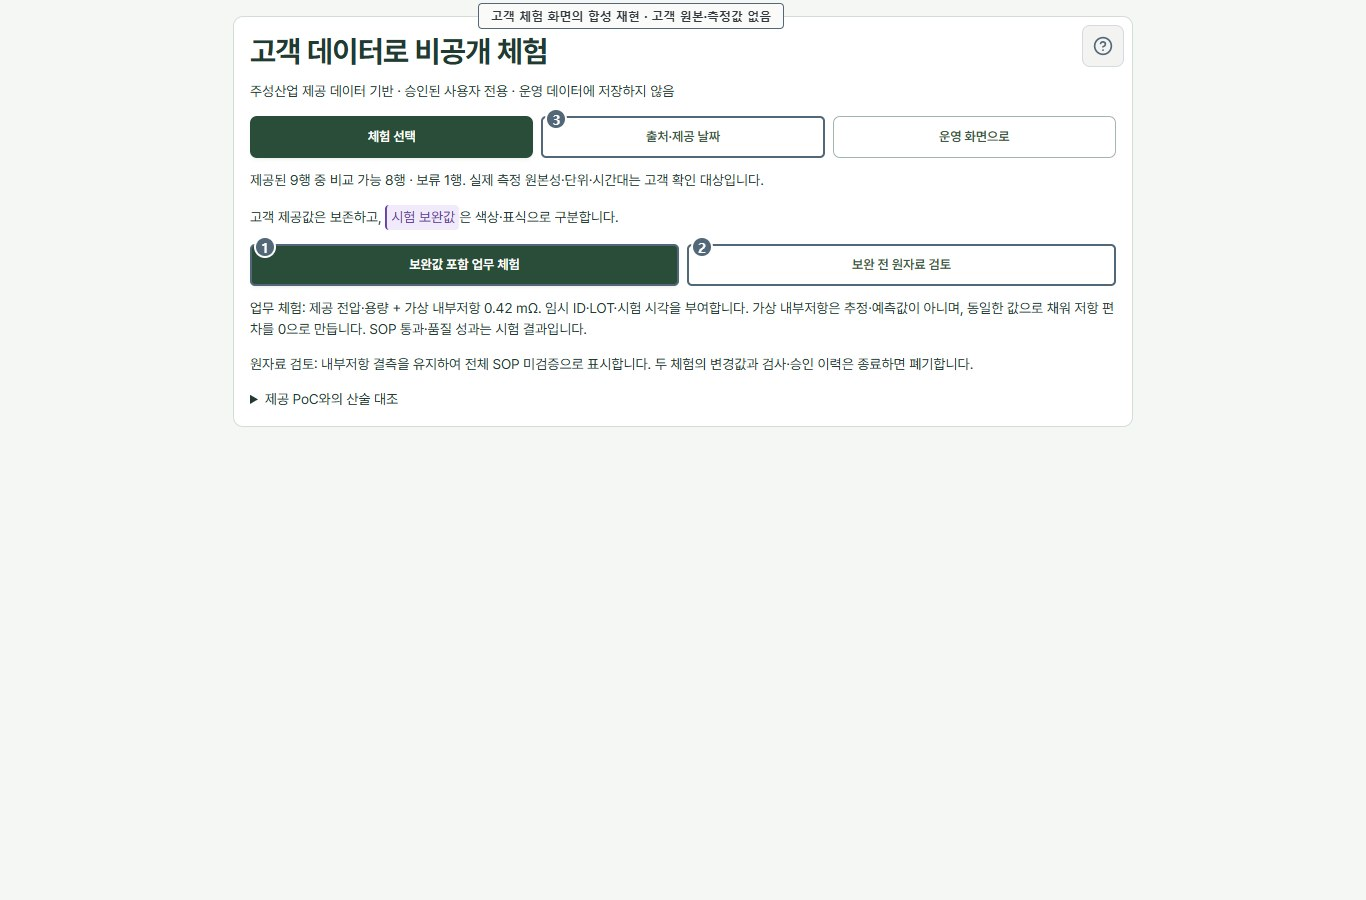
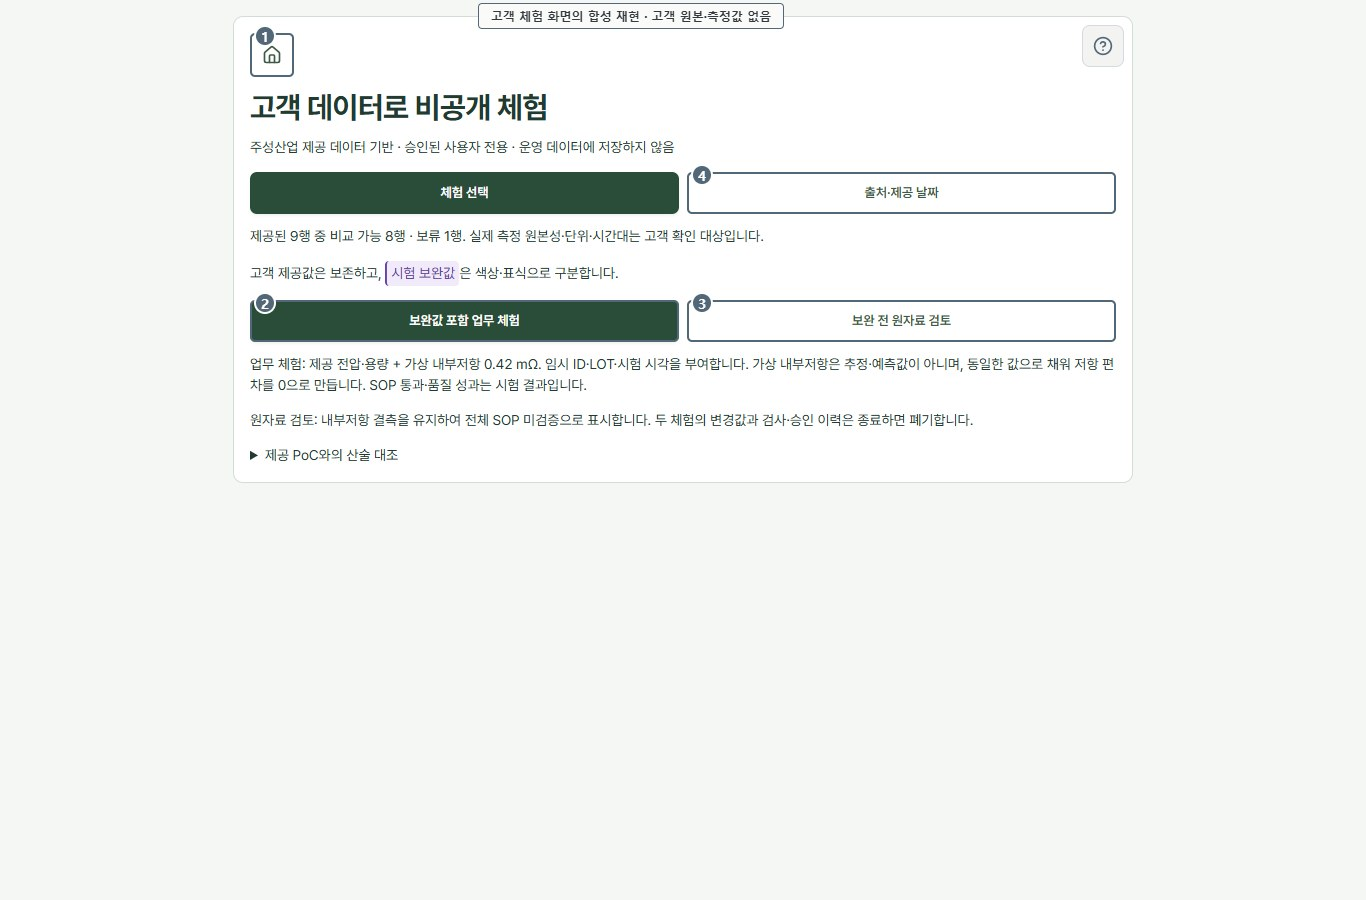
Make private demo home return visible and refresh source-data guidance

diff --git a/src/manual/content.ts b/src/manual/content.ts
@@ -14,6 +14,6 @@ export const scenarios:ManualScenario[]=[
  {id:'twin',title:'공정 공간·설계·시뮬레이션',role:'공정 설계·연구 담당자',start:'생산·품질의 공유 현장과 연구의 가상 설계를 구분합니다. 현재 실제 장비 신호는 연결되어 있지 않습니다.',steps:[{title:'공간과 기록 구분',body:'개인 설계 배치는 위치 파악용입니다. 공간의 표시만으로 실제 가동·품질을 판단하지 않습니다.',target:'.console-scene, .studio-scene'},{title:'장비와 연결 정의',body:'공정 구성에서 장비를 선택하고 배치·처리주기·수치 태그·공정 연결을 정의한 뒤 적용합니다.',target:'.studio-tool-picker, .studio-panel'},{title:'명시적으로 모의 실행',body:'시뮬레이션에서 가상 실행 또는 1초 진행을 누릅니다. 조립·저장·승인만으로 가동되지 않습니다.',target:'.studio-command-bar'},{title:'결과와 제출본 검토',body:'모의 실행 기록과 경보를 확인하고 설계 검토를 요청합니다. 저장·가져오기에서 개인 배치를 보관할 수 있습니다.',target:'.studio-panel, .console-focus'},{title:'설계 저장과 가져오기',body:'현재 배치를 이 브라우저에 저장하거나 JSON 파일로 보관합니다. 저장은 실제 공장에 적용하는 작업이 아닙니다.',target:'.twin-storage .twin-actions',priority:1}],criteria:'모의 처리량·센서는 합성 값입니다. 실제 공장 처리량, 배터리 물리 모델 또는 실제 장비 제어 결과가 아닙니다.',exception:'연결 누락·순환 등 실행 오류를 먼저 수정하세요. 실제 현장 연계에는 장비 매핑·게이트웨이·검증이 별도로 필요합니다.',done:'개인 공정 설계와 모의 검토 근거를 보관하거나 제출합니다.'},
  {id:'research',title:'공개 데이터·알고리즘 검증',role:'분석·검증 담당자',start:'조합 비교, 데이터 준비 상태 검사, 공개 모델 체험 중 목적을 정합니다.',steps:[{title:'목적에 맞는 도구 선택',body:'조합 비교는 셀 조합 방법을 비교합니다. 데이터 준비 검증은 연구 조건·스키마를 확인합니다. 연구 모델·열화 관찰에서 UConn 공개 모델 추론과 Severson 열화 이력을 엽니다.',target:'.research-lab > .task-group-tabs, .research-lab > .visible-task-tabs'},{title:'출처·조건 확인',body:'UConn 55셀은 연구 조건의 전압·펄스 저항·용량 자료입니다. 현장 OCV·ACIR과 같은 측정으로 간주하지 않습니다.',target:'.research-body, .data-validation, .pretrained-explorer'},{title:'실행 결과 해석·보관',body:'입력과 조건을 확인하고 직접 실행합니다. 결과의 한계와 근거를 확인해 내보내거나 허용된 저장 기능을 사용합니다.',target:'.research-results, .research-body, .data-validation, .pretrained-explorer'},{title:'수명·안정성 정보 구분',body:'UConn은 공개 특징값으로 용량 추정을 재생합니다. Severson은 시험 기록의 용량 변화를 관찰합니다. 둘 다 주성산업 8셀 팩의 수명·안정성을 예측하거나 품질을 승인하는 기능은 아닙니다.',target:'.pretrained-explorer, .severson-explorer'}],criteria:'데이터 스키마 충족은 예측 성능 인증이 아닙니다. 연구 결과는 운영 셀·팩·품질 지표에 자동 반영되지 않습니다.',exception:'자료나 조건이 부족하면 미검증으로 남깁니다. 외부 링크가 열리지 않으면 화면의 보관된 근거 요약을 확인합니다.',done:'재현 가능한 비교 근거와 현장 적용 전 추가 검증 항목을 확보합니다.'},
  {id:'members',title:'가입 승인·공정 배정·승인권',role:'시스템 관리자',start:'직원의 신원과 수행할 업무를 확인합니다.',steps:[{title:'가입 상태 확인',body:'가입 신청자의 계정을 확인해 승인·반려합니다. 조회자와 업무 구성원의 역할을 구분합니다.',target:'.table-wrap'},{title:'담당 공정 배정',body:'셀 등록·매칭·케이싱, 모듈 검사·기존 에이징, 최종검사 중 실제 담당 공정을 지정합니다.',target:'.member-permission-fields fieldset, .member-permissions summary'},{title:'최종 승인권 별도 할당',body:'품질 승인 업무를 맡은 사람에게 별도로 승인권을 부여합니다. 관리자라는 이유로 최종 품질 승인을 수행하지 않습니다.',target:'.member-permission-fields > button, .member-permissions summary'}],criteria:'가입 승인과 업무 권한 설정을 각각 확인합니다. 독립 승인 원칙은 권한 할당 후에도 적용됩니다.',exception:'공개 체험에서는 실제 사용자 권한을 바꾸지 않습니다. 이동·퇴사 시 담당 공정과 이용 상태를 점검합니다.',done:'직원이 필요한 업무만 수행할 수 있도록 역할·공정·승인권이 설정됩니다.'},
- {id:'sample',title:'샘플·고객 제공 데이터 체험',role:'체험 사용자·승인된 고객 자료 사용자',start:'가상 데이터로 공정 체험은 빈 재고에서 시작합니다. 가상 측정 파일 받기 → 파일 가져오기 → 검증·등록 → 용량별 재고 확인 → 8셀 조합 → 모듈 검사 → 케이싱 → 최종검사 → 품질 승인 순으로 진행합니다. 파일 등록 단계에서 예시 셀로 다음 단계를 누르면 가상 셀 128개로 용량별 재고 확인부터 진행합니다.',steps:[{title:'원본과 보완값 구분',body:'공개 체험의 셀은 기능 시연용 가상값입니다. 로그인 후 고객 데이터 체험에서는 원자료와 시험 보완값 표시를 비교합니다. 보완 내부저항은 실측이 아닙니다.',target:'.sample-value-grid, .sample-data-body, .private-demo-entry'},{title:'출처·날짜 확인',body:'파일 출처와 메타정보 날짜를 확인합니다. 파일 생성·수정일을 실제 제공일로 단정하지 않습니다.',target:'.sample-main-tabs > button:last-child, .sample-field-tabs > button:last-child, .private-demo-entry'},{title:'업무로 돌아가기',body:'샘플 확인을 닫으면 이전 업무로 돌아갑니다. 체험 중의 팩·검사는 실제 운영 기록과 구분합니다.',target:'.sample-data-view .console-task-heading > button, .private-demo-entry button'}],criteria:'원자료 모드는 결측을 유지합니다. 보완값을 사용한 업무 체험 결과를 원본 SOP 전체 통과로 표현하지 않습니다.',exception:'고객 자료 접근 권한이 없으면 관리자에게 문의합니다. 실제 원본·비밀번호를 공개 저장소나 공개 체험에 넣지 않습니다.',done:'데이터 출처와 보완 범위를 이해한 상태로 연습하거나 근거를 검토합니다.'}
+ {id:'sample',title:'샘플·고객 제공 데이터 체험',role:'체험 사용자·승인된 고객 자료 사용자',start:'가상 데이터로 공정 체험은 빈 재고에서 시작합니다. 가상 측정 파일 받기 → 파일 가져오기 → 검증·등록 → 용량별 재고 확인 → 8셀 조합 → 모듈 검사 → 케이싱 → 최종검사 → 품질 승인 순으로 진행합니다. 파일 등록 단계에서 예시 셀로 다음 단계를 누르면 가상 셀 128개로 용량별 재고 확인부터 진행합니다.',steps:[{title:'전체 컬럼과 값 조회',body:'로그인 후 고객 데이터 체험에 들어가 샘플 데이터의 전체 항목을 엽니다. 원자료를 선택하면 원래 컬럼명과 모든 값을 조회할 수 있습니다. 충방전 기록과 PoC 2~4번째 탭을 제공하며 첫 품질 기준 설명 탭은 제외합니다. 가로 스크롤과 이전·다음 자료로 이동합니다.',target:'.source-tables',priority:10},{title:'원본과 보완값 구분',body:'공개 체험의 셀은 기능 시연용 가상값입니다. 로그인 후 고객 데이터 체험에서는 원자료와 시험 보완값 표시를 비교합니다. 보완 내부저항은 실측이 아닙니다.',target:'.sample-value-grid, .sample-data-body, .private-demo-entry'},{title:'출처·날짜 확인',body:'파일 출처와 메타정보 날짜를 확인합니다. 파일 생성·수정일을 실제 제공일로 단정하지 않습니다.',target:'.sample-main-tabs > button:last-child, .sample-field-tabs > button:last-child, .private-demo-entry'},{title:'업무로 돌아가기',body:'샘플 조회의 업무로 돌아가기는 체험 작업으로 복귀합니다. 체험 종료 후 선택 화면의 제목 위 홈 아이콘을 누르면 운영 화면으로 돌아갑니다.',target:'.sample-data-view .console-task-heading > button, .private-demo-home'}],criteria:'원자료 모드는 결측을 유지합니다. 보완값을 사용한 업무 체험 결과를 원본 SOP 전체 통과로 표현하지 않습니다.',exception:'고객 자료 접근 권한이 없으면 관리자에게 문의합니다. 실제 원본·비밀번호를 공개 저장소나 공개 체험에 넣지 않습니다.',done:'데이터 출처와 보완 범위를 이해한 상태로 연습하거나 근거를 검토합니다.'}
 ];
 export function scenarioById(id:string){return scenarios.find(s=>s.id===id)||scenarios[0];}

diff --git a/tests/private-demo.spec.ts b/tests/private-demo.spec.ts
@@ -7,7 +7,7 @@ test('private samples distinguish provided/supplemented values, restore work and
  const dataset={version:1,source_tables,files:[{name:'synthetic-fixture.xlsx',sha256:'a'.repeat(64),created:'2026-01-01T00:00:00Z',modified:'2026-02-01T00:00:00Z',provided_at:null}],verification:{valid:8,held:1,sequence_mean:7,poc_mean:7,improvement_percent:0,poc_two_criteria_pass:1,algorithm_reproduced:false},intake:{name:'synthetic-fixture.xlsx',hash:'a'.repeat(64),source_kind:'reconstructed',mapping_version:'test',headers:[],warnings:[],rows:Array.from({length:9},(_,i)=>({id:`PRIVATE-${i}`,channel:String(i),row_no:i+3,voltage_mv:3300+i/10,capacity_mah:i===8?null:25000+i,resistance_mohm:null,measured_at:null,issues:[],state:i===8?'held':'ready',field_origins:{id:'supplemented',voltage_mv:'provided',capacity_mah:'provided'}}))}};
  await page.addInitScript(id=>localStorage.setItem('sb-asfrsorbzmqhnwnxlxar-auth-token',JSON.stringify({access_token:'test-token',refresh_token:'refresh',expires_at:Math.floor(Date.now()/1000)+3600,token_type:'bearer',user:{id,email:'test@example.com',aud:'authenticated',role:'authenticated'}})),id);
  await page.route('https://asfrsorbzmqhnwnxlxar.supabase.co/**',route=>{const path=new URL(route.request().url()).pathname;if(path.endsWith('/profiles'))return route.fulfill({json:profile});if(path.endsWith('/read_workbench'))return route.fulfill({json:{profile,changed:true,revision:1,cells:[],packs:[],tests:[],members:[]}});if(path.endsWith('/private_demo_datasets'))return revoked?route.fulfill({status:406,json:{message:'denied'}}):route.fulfill({json:{payload:dataset}});if(route.request().method==='POST')writes.push(path);return route.fulfill({json:[]});});
- await page.goto('/batt/');await page.getByRole('button',{name:'고객 데이터 체험',exact:true}).click();await page.getByRole('button',{name:'보완값 포함 업무 체험',exact:true}).click();
+ await page.goto('/batt/');await page.getByRole('button',{name:'고객 데이터 체험',exact:true}).click();const home=page.getByRole('button',{name:'운영 홈으로 돌아가기',exact:true});await expect(home).toBeVisible();expect((await home.boundingBox())!.width).toBe(44);expect((await home.boundingBox())!.y).toBeLessThan((await page.getByRole('heading',{name:'고객 데이터로 비공개 체험'}).boundingBox())!.y);await home.click();await expect(page.locator('.private-demo-entry')).toHaveCount(0);await page.getByRole('button',{name:'고객 데이터 체험',exact:true}).click();await page.getByRole('button',{name:'보완값 포함 업무 체험',exact:true}).click();
  await expect(page.getByRole('cell').filter({hasText:'PRIVATE-0'}).first()).toBeVisible();
  await page.getByRole('button',{name:'샘플 데이터',exact:true}).click();const view=page.getByRole('region',{name:'샘플 데이터 뷰'});
  await expect(view.locator('.data-origin-supplemented').filter({hasText:'0.42'})).toBeVisible();await expect(view.locator('.data-origin-provided').filter({hasText:'25000'})).toBeVisible();await expect(view).toContainText('결측');

diff --git a/src/PrivateDemo.tsx b/src/PrivateDemo.tsx
@@ -1,3 +1,4 @@
+import {House} from 'lucide-react';
 import UserManual from './manual/UserManual';
 import {useEffect,useState} from 'react';
 import type {Session} from '@supabase/supabase-js';
@@ -18,7 +19,7 @@ export default function PrivateDemo({session,onExit}:{session:Session;onExit:()=
   return()=>{alive=false;controller.abort();clearInterval(timer);window.removeEventListener('focus',read);};
  },[session.user.id]);
  if(dataset&&mode)return <Workbench key={mode} session={session} demo onLeave={()=>setMode(null)} privateDemo={{dataset,mode,cells:mode==='workflow'?demoCellsFrom(dataset):[]}}/>;
- return <main className="private-demo-entry"><UserManual context="sample"/><section className="panel"><h1>고객 데이터로 비공개 체험</h1><p>주성산업 제공 데이터 기반 · 승인된 사용자 전용 · 운영 데이터에 저장하지 않음</p><nav aria-label="체험 안내"><button className={tab==='start'?'primary':'secondary'} onClick={()=>setTab('start')}>체험 선택</button><button className={tab==='source'?'primary':'secondary'} onClick={()=>setTab('source')}>출처·제공 날짜</button><button className="secondary" onClick={onExit}>운영 화면으로</button></nav>
+ return <main className="private-demo-entry"><UserManual context="sample"/><section className="panel"><div className="private-demo-home-row"><button className="secondary private-demo-home" aria-label="운영 홈으로 돌아가기" title="운영 홈으로 돌아가기" onClick={onExit}><House aria-hidden="true" className="icon-20"/></button></div><h1>고객 데이터로 비공개 체험</h1><p>주성산업 제공 데이터 기반 · 승인된 사용자 전용 · 운영 데이터에 저장하지 않음</p><nav aria-label="체험 안내"><button className={tab==='start'?'primary':'secondary'} onClick={()=>setTab('start')}>체험 선택</button><button className={tab==='source'?'primary':'secondary'} onClick={()=>setTab('source')}>출처·제공 날짜</button></nav>
  {error?<p role="alert">{error}</p>:!dataset?<p role="status">비공개 자료 접근 권한을 확인하고 있습니다.</p>:tab==='start'?<>
  <p>제공된 {dataset.intake.rows.length}행 중 비교 가능 {dataset.verification.valid}행 · 보류 {dataset.verification.held}행. 실제 측정 원본성·단위·시간대는 고객 확인 대상입니다.</p>
  <p><span className="data-origin-provided">고객 제공값</span>은 보존하고, <span className="data-value data-origin-supplemented">시험 보완값</span>은 색상·표식으로 구분합니다.</p>

diff --git a/src/provenance.css b/src/provenance.css
@@ -51,3 +51,6 @@
 .source-table-scroll th { min-width:110px; max-width:360px; white-space:normal; }
 .source-tables .console-pager { flex-shrink:0; }
 .sample-data-view nav[hidden] { display:none; }
+
+.private-demo-home-row { margin-bottom:var(--space-12); padding-right:56px; }
+.private-demo-entry .private-demo-home-row .private-demo-home { display:inline-flex; align-items:center; justify-content:center; width:44px; min-width:44px; height:44px; padding:0; }
